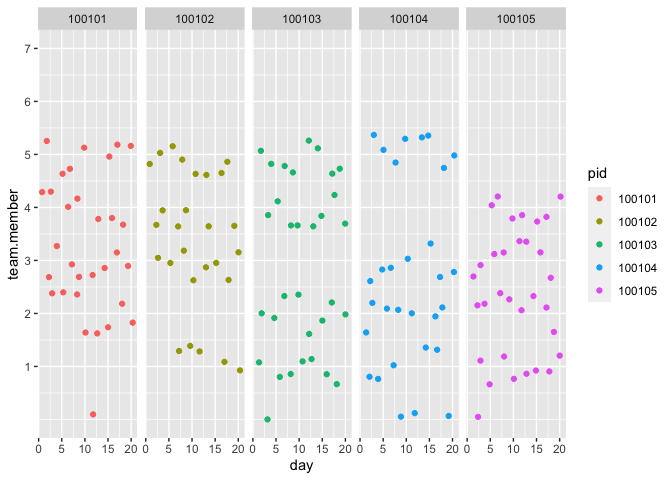
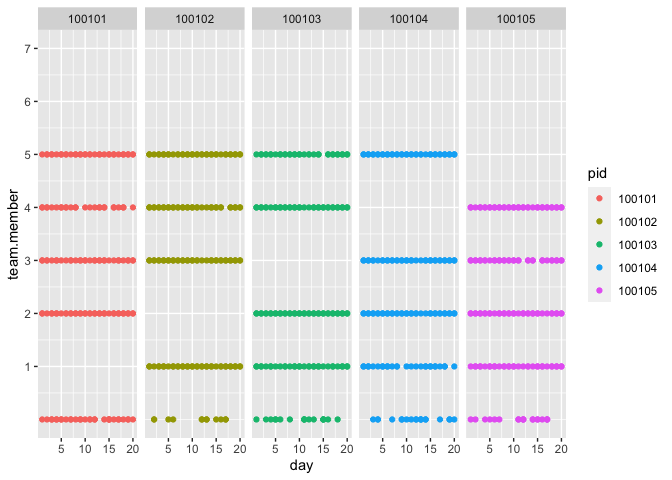
CRRC

diff --git a/CRRC-Interactions-per-day.md b/CRRC-Interactions-per-day.md
@@ -38,16 +38,13 @@ dlonger$team.member <- as.numeric(dlonger$team.member)
 
 # Plot first five participants
 dlonger %>%
-   filter(pid == 100101:100105) %>%
+   filter(pid == 100101 | pid == 100102 | pid == 100103 | pid == 100104 | pid == 100105) %>%
    filter(!is.na(response))%>%
    ggplot(aes(x = day, y = team.member, color = pid)) +
-   geom_jitter() + 
+   geom_point() + 
    scale_y_continuous(limits = c(0,7), breaks = 1:7) +
-   scale_y_continuous(limits = c(0,7), breaks = 1:20) +
    facet_wrap(vars(pid), ncol = 5)
 ```
-
-    ## Warning: Removed 8 rows containing missing values (geom_point).
 
 ![](CRRC-Interactions-per-day_files/figure-gfm/unnamed-chunk-3-1.png)<!-- -->
 
@@ -55,16 +52,44 @@ Additional plot of only the first 5 days
 
 ``` r
 dlonger %>%
-   filter(pid == 100101:100105) %>%
+   filter(pid == 100101 | pid == 100102 | pid == 100103 | pid == 100104 | pid == 100105) %>%
    filter(!is.na(response))%>%
    filter(day < 6) %>%
    ggplot(aes(x = day, y = team.member, color = pid)) +
-   geom_jitter() + 
+   geom_point() + 
    scale_y_continuous(limits = c(0,7), breaks = 1:7) +
    scale_x_continuous(breaks = 1:5) +
    facet_wrap(vars(pid), ncol = 5)
 ```
 
-    ## Warning: Removed 1 rows containing missing values (geom_point).
-
 ![](CRRC-Interactions-per-day_files/figure-gfm/unnamed-chunk-4-1.png)<!-- -->
+
+Another group of five participants
+
+``` r
+dlonger %>%
+   filter(pid == 100201 | pid == 100202 | pid == 100203 | pid == 100204 | pid == 100301) %>%
+   filter(!is.na(response))%>%
+   ggplot(aes(x = day, y = team.member, color = pid)) +
+   geom_point() + 
+   scale_y_continuous(limits = c(0,7), breaks = 1:7) +
+   facet_wrap(vars(pid), ncol = 5)
+```
+
+![](CRRC-Interactions-per-day_files/figure-gfm/unnamed-chunk-5-1.png)<!-- -->
+
+Additional plot of only the first 5 days
+
+``` r
+dlonger %>%
+   filter(pid == 100201 | pid == 100202 | pid == 100203 | pid == 100204 | pid == 100301) %>%
+   filter(!is.na(response))%>%
+   filter(day < 6) %>%
+   ggplot(aes(x = day, y = team.member, color = pid)) +
+   geom_point() + 
+   scale_y_continuous(limits = c(0,7), breaks = 1:7) +
+   scale_x_continuous(breaks = 1:5) +
+   facet_wrap(vars(pid), ncol = 5)
+```
+
+![](CRRC-Interactions-per-day_files/figure-gfm/unnamed-chunk-6-1.png)<!-- -->
